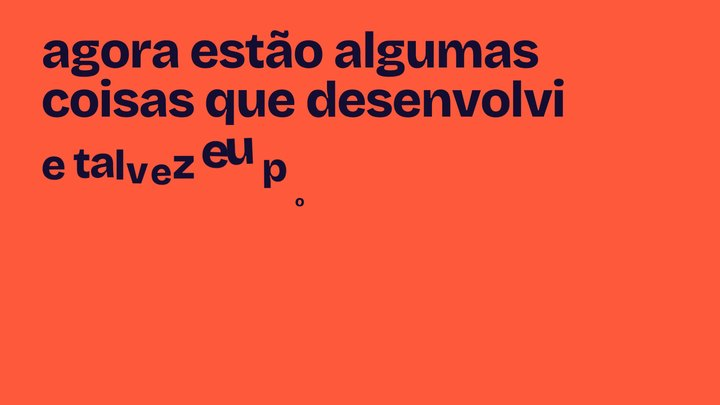
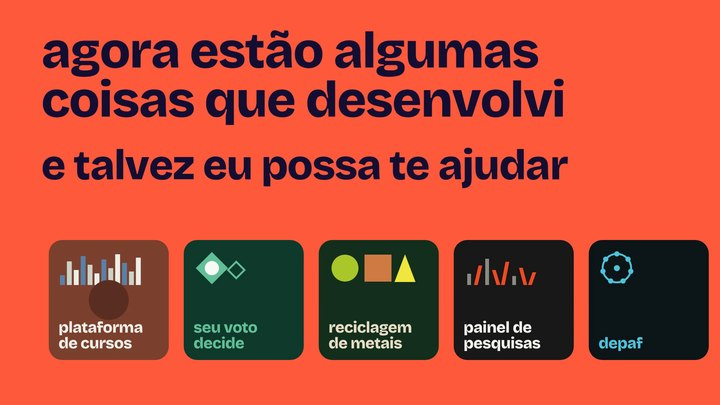
Sites de verdade, ensaios separados e reel novo na abertura
Ela corrigiu duas coisas. Os ensaios interativos estavam na gaveta de
web, como se fossem sites de cliente, e nao sao. E o reel de abertura
nomeava clientes cujos sites ainda nao foram publicados.

Agora ha gaveta de sites, com o que esta publicado e e dela: iecis.com.br,
o sistema de gestao interna do instituto, seuvotodecide.com.br, a
plataforma para quem pensa em nao votar, e o proprio site de ensaios.
Os quatro ensaios interativos passam a ter gaveta propria.

O reel vira a versao 2, que mostra as categorias de trabalho sem
nomear contratante. O arquivo antigo foi substituido no release.

Entram dois motions novos: "qual e a consequencia", sobre o debate, e
"incentive seus avos", das diretas ja ao voto de hoje. Sao oito pecas
de motion agora, e dezenove no total.

Conserto: as pecas de motion viraram botao e eu nao tinha zerado o
fundo que o navegador poe em button. O texto claro caia sobre cinza e
o contraste ia a 1,05. Vinte e quatro reprovacoes viraram zero.

Changed region(s): [[0.0611, 0.5926, 1.0, 0.8889], [0.0917, 0.3259, 0.7944, 0.4741], [0.3972, 0.4741, 0.4278, 0.5037]]

diff --git a/index.html b/index.html
@@ -512,7 +512,11 @@ body{overflow-x:hidden;}
 
 /* motion toca na propria pagina: o release serve com cabecalho de anexo,
    entao link baixa. O elemento de video ignora isso e reproduz. */
-.peca-mot{text-align:left;font:inherit;cursor:pointer;}
+/* botao traz fundo e borda do navegador: zerar, senao o texto claro
+   cai sobre cinza e o contraste despenca para 1,1 */
+.peca-mot{text-align:left;font:inherit;cursor:pointer;
+  background:none;border:0;border-bottom:1px solid rgba(236,231,218,.22);
+  color:inherit;-webkit-appearance:none;appearance:none;}
 .peca-capa{position:relative;display:block;margin-bottom:.6rem;background:#000;
   border:1px solid rgba(236,231,218,.3);}
 .peca-capa img{width:100%;display:block;aspect-ratio:9/16;object-fit:cover;}
@@ -539,6 +543,7 @@ body{overflow-x:hidden;}
 .palco-pe{margin-top:.6rem;font-family:var(--mono);font-size:.68rem;
   color:rgba(236,231,218,.6);}
 .palco-pe a{color:var(--mostarda);}
+.peca-wide img{aspect-ratio:16/10 !important;}
 </style>
 </head>
 <body>
@@ -609,7 +614,7 @@ body{overflow-x:hidden;}
   <div id="inicio-content">
     
     <h1 class="hero-head">portfólio</h1>
-    <p class="hero-assina">cíntia vitorino &middot; web, motion e dados</p>
+    <p class="hero-assina">cíntia vitorino &middot; sites, ensaios, motion e dados</p>
 
     <p class="hero-legenda">sem nome criativo. é isso mesmo. eu construo os sistemas que eu critico, e aqui está o que saiu disso.</p>
 
@@ -643,7 +648,7 @@ body{overflow-x:hidden;}
 <section id="trabalho">
   <div class="tr-topo">
     <h2 class="tr-titulo">o trabalho</h2>
-    <p class="tr-sub">15 peças. os botões reagrupam, e <b>tudo</b> volta à lista inteira.</p>
+    <p class="tr-sub">19 peças. os botões reagrupam, e <b>tudo</b> volta à lista inteira.</p>
   </div>
 
 
@@ -654,11 +659,11 @@ body{overflow-x:hidden;}
       <source src="https://github.com/cintiavtrno/portfolio/releases/download/motion-v1/cintia.mp4" type="video/mp4">
       seu navegador não toca vídeo. <a href="https://github.com/cintiavtrno/portfolio/releases/download/motion-v1/cintia.mp4">baixe o arquivo</a>.
     </video>
-    <p class="abertura-leg">dois minutos e meio com o que eu desenvolvi, entre web, motion e dados.</p>
+    <p class="abertura-leg">dois minutos e meio com o que eu desenvolvi, por tipo de trabalho.</p>
   </div>
 
   <div class="destaque">
-    <p class="dest-rot">web &middot; ensaios visuais interativos</p>
+    <p class="dest-rot">ensaios visuais interativos</p>
     <p class="dest-txt">faço ensaios que se lê navegando, em html, css e js puros, sem framework. quatro que eu abriria primeiro.</p>
     <div class="dest-lista">
       <a class="dest-item" href="https://cintiavtrn.github.io/retrotech/" target="_blank" rel="noopener"><span class="dest-n">01</span><span class="dest-tit">a recusa que virou vitrine</span><span class="dest-desc">atlas isométrico onde cada baía é uma etapa do argumento, sobre uma geração que trocou o celular por câmera analógica e disco de vinil. publicado no manual do usuário.</span></a>
@@ -670,22 +675,27 @@ body{overflow-x:hidden;}
 
   <div class="abas" role="tablist" aria-label="filtrar por tipo de trabalho">
     <button class="aba on" role="tab" data-filtro="tudo" aria-selected="true">tudo</button>
-    <button class="aba" role="tab" data-filtro="web" aria-selected="false">web</button>
+    <button class="aba" role="tab" data-filtro="sites" aria-selected="false">sites</button>
+    <button class="aba" role="tab" data-filtro="ensaios" aria-selected="false">ensaios</button>
     <button class="aba" role="tab" data-filtro="motion" aria-selected="false">motion</button>
     <button class="aba" role="tab" data-filtro="dados" aria-selected="false">dados</button>
     <button class="aba" role="tab" data-filtro="pesquisa" aria-selected="false">pesquisa</button>
   </div>
   <p class="abas-estado" id="abas-estado" role="status" aria-live="polite"></p>
   <div class="pecas" id="pecas">
-    <a class="peca" data-cat="web" href="https://cintiavitorino.com.br/" target="_blank" rel="noopener"><span class="peca-cat">web</span><span class="peca-tit">cintiavitorino.com.br</span><span class="peca-nota">doze ensaios visuais interativos</span></a>
-    <a class="peca" data-cat="web" href="https://cintiavitorino.com.br/doislados/" target="_blank" rel="noopener"><span class="peca-cat">web</span><span class="peca-tit">dois lados</span><span class="peca-nota">prancha de leitura com planta, corte e perfil</span></a>
-    <a class="peca" data-cat="web" href="https://cintiavitorino.com.br/doprazeraodever/" target="_blank" rel="noopener"><span class="peca-cat">web</span><span class="peca-tit">do prazer ao dever</span><span class="peca-nota">corredor de museu com sete vitrines isométricas</span></a>
-    <a class="peca" data-cat="web" href="https://cintiavtrn.github.io/retrotech/" target="_blank" rel="noopener"><span class="peca-cat">web</span><span class="peca-tit">a recusa que virou vitrine</span><span class="peca-nota">atlas isométrico, publicado no manual do usuário</span></a>
-    <a class="peca" data-cat="web" href="https://cintiavitorino.com.br/pranchasmartcities/" target="_blank" rel="noopener"><span class="peca-cat">web</span><span class="peca-tit">cidades inteligentes</span><span class="peca-nota">prancha sobre tecnologia urbana em salvador</span></a>
-    <button type="button" class="peca peca-mot" data-cat="motion" data-video="https://github.com/cintiavtrno/portfolio/releases/download/motion-v1/cintia.mp4" data-titulo="o que eu desenvolvi"><span class="peca-capa"><img src="motion/cintia.jpg" alt="" loading="lazy"><span class="peca-play" aria-hidden="true"></span></span><span class="peca-cat">motion</span><span class="peca-tit">o que eu desenvolvi</span><span class="peca-nota">reel de criações, com web, motion e dados lado a lado</span></button>
+    <a class="peca" data-cat="sites" href="https://iecis.com.br/" target="_blank" rel="noopener"><span class="peca-capa peca-wide"><img src="motion/iecis.jpg" alt="" loading="lazy"></span><span class="peca-cat">sites</span><span class="peca-tit">iecis</span><span class="peca-nota">sistema de gestão interna do instituto de esporte, cidadania e inclusão social</span></a>
+    <a class="peca" data-cat="sites" href="https://seuvotodecide.com.br/" target="_blank" rel="noopener"><span class="peca-capa peca-wide"><img src="motion/svd.jpg" alt="" loading="lazy"></span><span class="peca-cat">sites</span><span class="peca-tit">seu voto decide</span><span class="peca-nota">plataforma de conteúdo para quem pensa em não votar</span></a>
+    <a class="peca" data-cat="sites" href="https://cintiavitorino.com.br/" target="_blank" rel="noopener"><span class="peca-cat">sites</span><span class="peca-tit">cintiavitorino.com.br</span><span class="peca-nota">meu site de ensaios, feito em html, css e js puros</span></a>
+    <a class="peca" data-cat="ensaios" href="https://cintiavitorino.com.br/doislados/" target="_blank" rel="noopener"><span class="peca-cat">ensaios</span><span class="peca-tit">dois lados</span><span class="peca-nota">prancha de leitura com planta, corte e perfil</span></a>
+    <a class="peca" data-cat="ensaios" href="https://cintiavitorino.com.br/doprazeraodever/" target="_blank" rel="noopener"><span class="peca-cat">ensaios</span><span class="peca-tit">do prazer ao dever</span><span class="peca-nota">corredor de museu com sete vitrines isométricas</span></a>
+    <a class="peca" data-cat="ensaios" href="https://cintiavtrn.github.io/retrotech/" target="_blank" rel="noopener"><span class="peca-cat">ensaios</span><span class="peca-tit">a recusa que virou vitrine</span><span class="peca-nota">atlas isométrico, publicado no manual do usuário</span></a>
+    <a class="peca" data-cat="ensaios" href="https://cintiavitorino.com.br/pranchasmartcities/" target="_blank" rel="noopener"><span class="peca-cat">ensaios</span><span class="peca-tit">cidades inteligentes</span><span class="peca-nota">prancha sobre tecnologia urbana em salvador</span></a>
+    <button type="button" class="peca peca-mot" data-cat="motion" data-video="https://github.com/cintiavtrno/portfolio/releases/download/motion-v1/cintia.mp4" data-titulo="o que eu desenvolvi"><span class="peca-capa"><img src="motion/cintia.jpg" alt="" loading="lazy"><span class="peca-play" aria-hidden="true"></span></span><span class="peca-cat">motion</span><span class="peca-tit">o que eu desenvolvi</span><span class="peca-nota">reel de criações, por tipo de trabalho</span></button>
     <button type="button" class="peca peca-mot" data-cat="motion" data-video="https://github.com/cintiavtrno/portfolio/releases/download/motion-v1/cartas.mp4" data-titulo="cartas na mesa"><span class="peca-capa"><img src="motion/cartas.jpg" alt="" loading="lazy"><span class="peca-play" aria-hidden="true"></span></span><span class="peca-cat">motion</span><span class="peca-tit">cartas na mesa</span><span class="peca-nota">para seu voto decide, comparando propostas carta a carta</span></button>
     <button type="button" class="peca peca-mot" data-cat="motion" data-video="https://github.com/cintiavtrno/portfolio/releases/download/motion-v1/debate.mp4" data-titulo="placar da verdade"><span class="peca-capa"><img src="motion/debate.jpg" alt="" loading="lazy"><span class="peca-play" aria-hidden="true"></span></span><span class="peca-cat">motion</span><span class="peca-tit">placar da verdade</span><span class="peca-nota">checagem do debate da band, com veredito por fala</span></button>
     <button type="button" class="peca peca-mot" data-cat="motion" data-video="https://github.com/cintiavtrno/portfolio/releases/download/motion-v1/seisum.mp4" data-titulo="a escala 6x1"><span class="peca-capa"><img src="motion/seisum.jpg" alt="" loading="lazy"><span class="peca-play" aria-hidden="true"></span></span><span class="peca-cat">motion</span><span class="peca-tit">a escala 6x1</span><span class="peca-nota">para seu voto decide, sobre jornada e quem sustenta o comércio</span></button>
+    <button type="button" class="peca peca-mot" data-cat="motion" data-video="https://github.com/cintiavtrno/portfolio/releases/download/motion-v1/collor.mp4" data-titulo="qual é a consequência"><span class="peca-capa"><img src="motion/collor.jpg" alt="" loading="lazy"><span class="peca-play" aria-hidden="true"></span></span><span class="peca-cat">motion</span><span class="peca-tit">qual é a consequência</span><span class="peca-nota">para seu voto decide, sobre o debate e o que vem depois</span></button>
+    <button type="button" class="peca peca-mot" data-cat="motion" data-video="https://github.com/cintiavtrno/portfolio/releases/download/motion-v1/avos.mp4" data-titulo="incentive seus avós"><span class="peca-capa"><img src="motion/avos.jpg" alt="" loading="lazy"><span class="peca-play" aria-hidden="true"></span></span><span class="peca-cat">motion</span><span class="peca-tit">incentive seus avós</span><span class="peca-nota">para seu voto decide, das diretas já ao voto de hoje</span></button>
     <button type="button" class="peca peca-mot" data-cat="motion" data-video="https://github.com/cintiavtrno/portfolio/releases/download/motion-v1/ladip.mp4" data-titulo="o voto como direito humano"><span class="peca-capa"><img src="motion/ladip.jpg" alt="" loading="lazy"><span class="peca-play" aria-hidden="true"></span></span><span class="peca-cat">motion</span><span class="peca-tit">o voto como direito humano</span><span class="peca-nota">para a ladip, da onu de 1945 à ditadura e à soberania</span></button>
     <button type="button" class="peca peca-mot" data-cat="motion" data-video="https://github.com/cintiavtrno/portfolio/releases/download/motion-v1/tml.mp4" data-titulo="tml, proposta"><span class="peca-capa"><img src="motion/tml.jpg" alt="" loading="lazy"><span class="peca-play" aria-hidden="true"></span></span><span class="peca-cat">motion</span><span class="peca-tit">tml, proposta</span><span class="peca-nota">um link para cada cliente, e o dado virando desenho</span></button>
     <a class="peca" data-cat="dados" href="#produtos"><span class="peca-cat">dados</span><span class="peca-tit">iecisgestão</span><span class="peca-nota">produto digital de gestão institucional</span></a>
